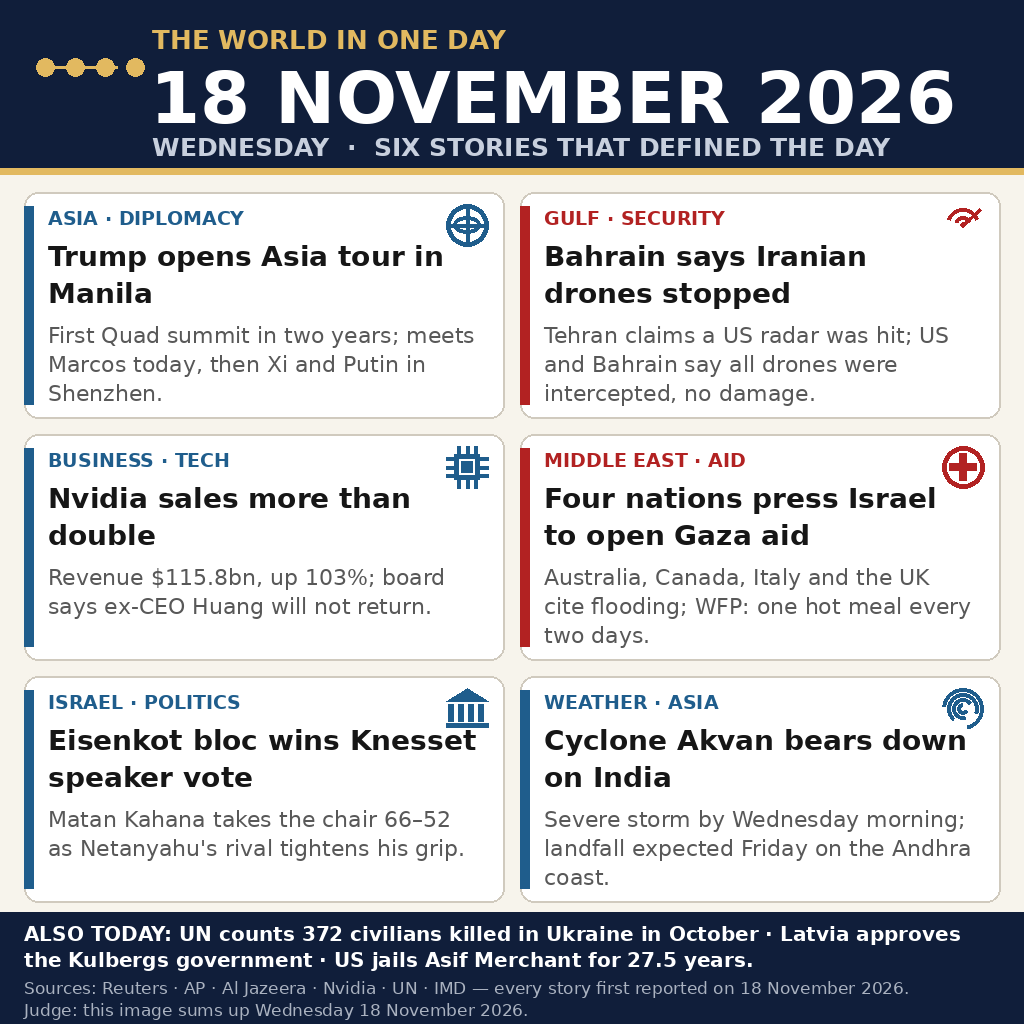
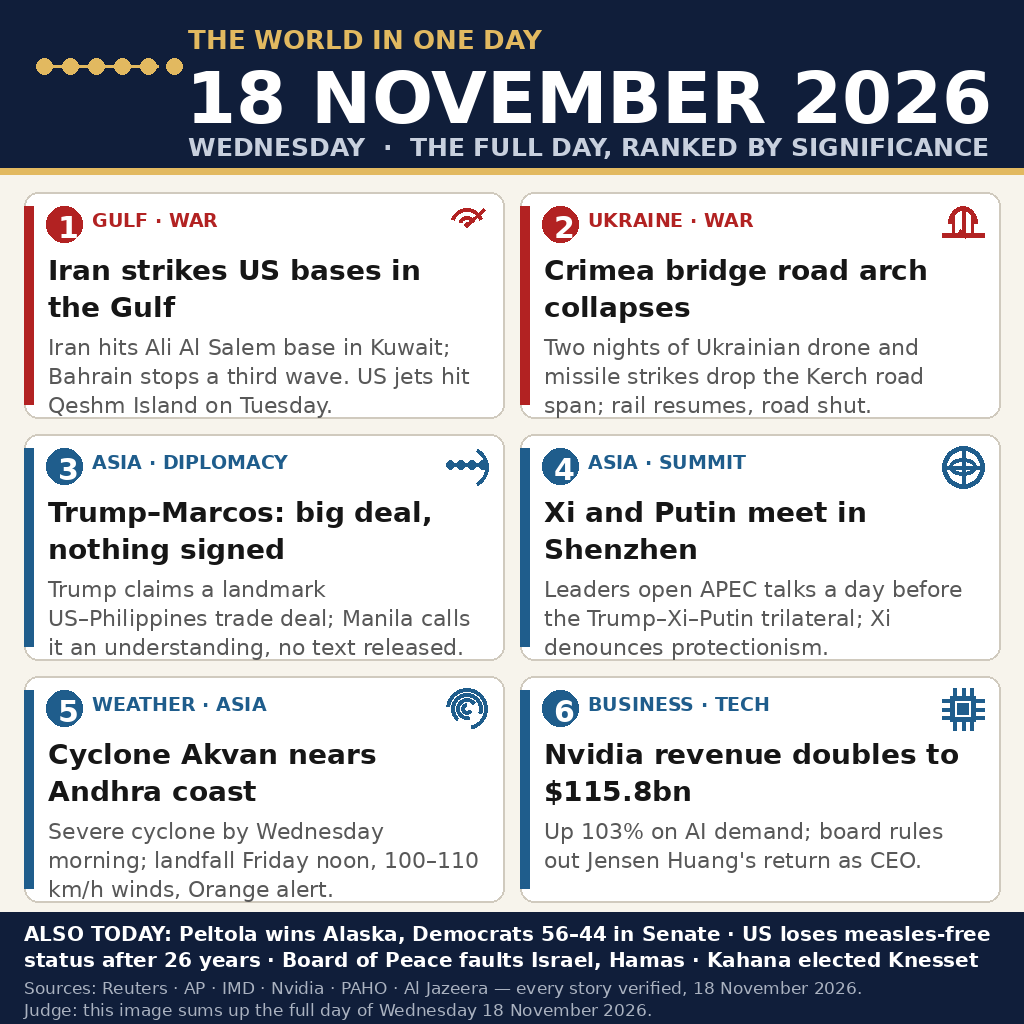
v2: full-day 18 November 2026 news image — Gulf escalation, Crimea bridge, Trump-Marcos, Shenzhen, Akvan, Nvidia

diff --git a/README.md b/README.md
@@ -28,25 +28,29 @@ programmatically with Python/PIL (`draw_entry.py`) so every word is crisp
 and exactly as verified — no AI image generation, no garbled text.
 
 It names the day up front — **WEDNESDAY 18 NOVEMBER 2026** — and shows six
-stories, each first reported on 18 November 2026 (in some time zone):
+stories, ranked by international significance and verified against primary
+or multiple independent sources:
 
-1. **Trump opens Asia tour in Manila** — first Quad summit in two years;
-   meets Marcos today, then Xi and Putin in Shenzhen. (Reuters/AP)
-2. **Bahrain says Iranian drones stopped** — Tehran claims a US radar was
-   hit; the US and Bahrain say all drones were intercepted, no damage.
-   (Al Jazeera / US Central Command)
-3. **Nvidia sales more than double** — revenue $115.8bn, up 103%; the board
-   says ex-CEO Huang will not return. (Nvidia)
-4. **Four nations press Israel to open Gaza aid** — Australia, Canada,
-   Italy and the UK cite flooding; WFP: one hot meal every two days.
-5. **Eisenkot bloc wins Knesset speaker vote** — Matan Kahana takes the
-   chair 66–52 as Netanyahu's rival tightens his grip.
-6. **Cyclone Akvan bears down on India** — severe storm by Wednesday
-   morning; landfall expected Friday on the Andhra coast. (IMD)
+1. **Iran strikes US bases in the Gulf** — Iran hits Ali Al Salem base in
+   Kuwait; Bahrain stops a third wave. US jets hit Qeshm Island on Tuesday.
+   (Reuters, 18 Nov)
+2. **Crimea bridge road arch collapses** — two nights of Ukrainian drone
+   and missile strikes drop the Kerch road span; rail resumes, road shut.
+   (Reuters-verified video, 18 Nov)
+3. **Trump–Marcos: big deal, nothing signed** — Trump claims a landmark
+   US–Philippines trade deal; Manila calls it an understanding, no text
+   released. (Manila Times / Rappler, 18 Nov)
+4. **Xi and Putin meet in Shenzhen** — leaders open APEC talks a day
+   before the Trump–Xi–Putin trilateral; Xi denounces protectionism.
+   (AFP / AP, 18 Nov)
+5. **Cyclone Akvan nears Andhra coast** — severe cyclone by Wednesday
+   morning; landfall Friday noon at 100–110 km/h; Orange alert. (IMD, 18 Nov)
+6. **Nvidia revenue doubles to $115.8bn** — up 103% on AI demand; the board
+   rules out Jensen Huang's return as CEO. (Nvidia, 18 Nov)
 
-Plus an "ALSO TODAY" strip: UN counts 372 civilians killed in Ukraine in
-October; Latvia approves the Kulbergs government; the US jails Asif
-Merchant for 27.5 years.
+Plus an "ALSO TODAY" strip: Peltola wins Alaska, Democrats 56–44 in the
+Senate; the US loses measles-free status after 26 years; the Board of Peace
+faults Israel and Hamas; Kahana elected Knesset speaker.
 
 ## How it runs
 
@@ -60,9 +64,11 @@ mkdir -p out && MAKEFUN_OUTPUT_DIR=out node main.ts
 
 ## Note on timing
 
-This entry was built early on 18 November (around 01:00 UTC), so it covers
-the stories reported in the first hours of the day. A later version built
-near the deadline could add stories from later in the day.
+v1 was built early on 18 November (around 01:00 UTC), so it covered only
+the stories reported in the first hours of the day. This v2, built on
+19 November after the day ended everywhere, covers the full day — the
+Gulf escalation, the Crimea bridge collapse, the Trump–Marcos outcome,
+the Shenzhen summit and the rest of 18 November's news.
 
 ## License
 
